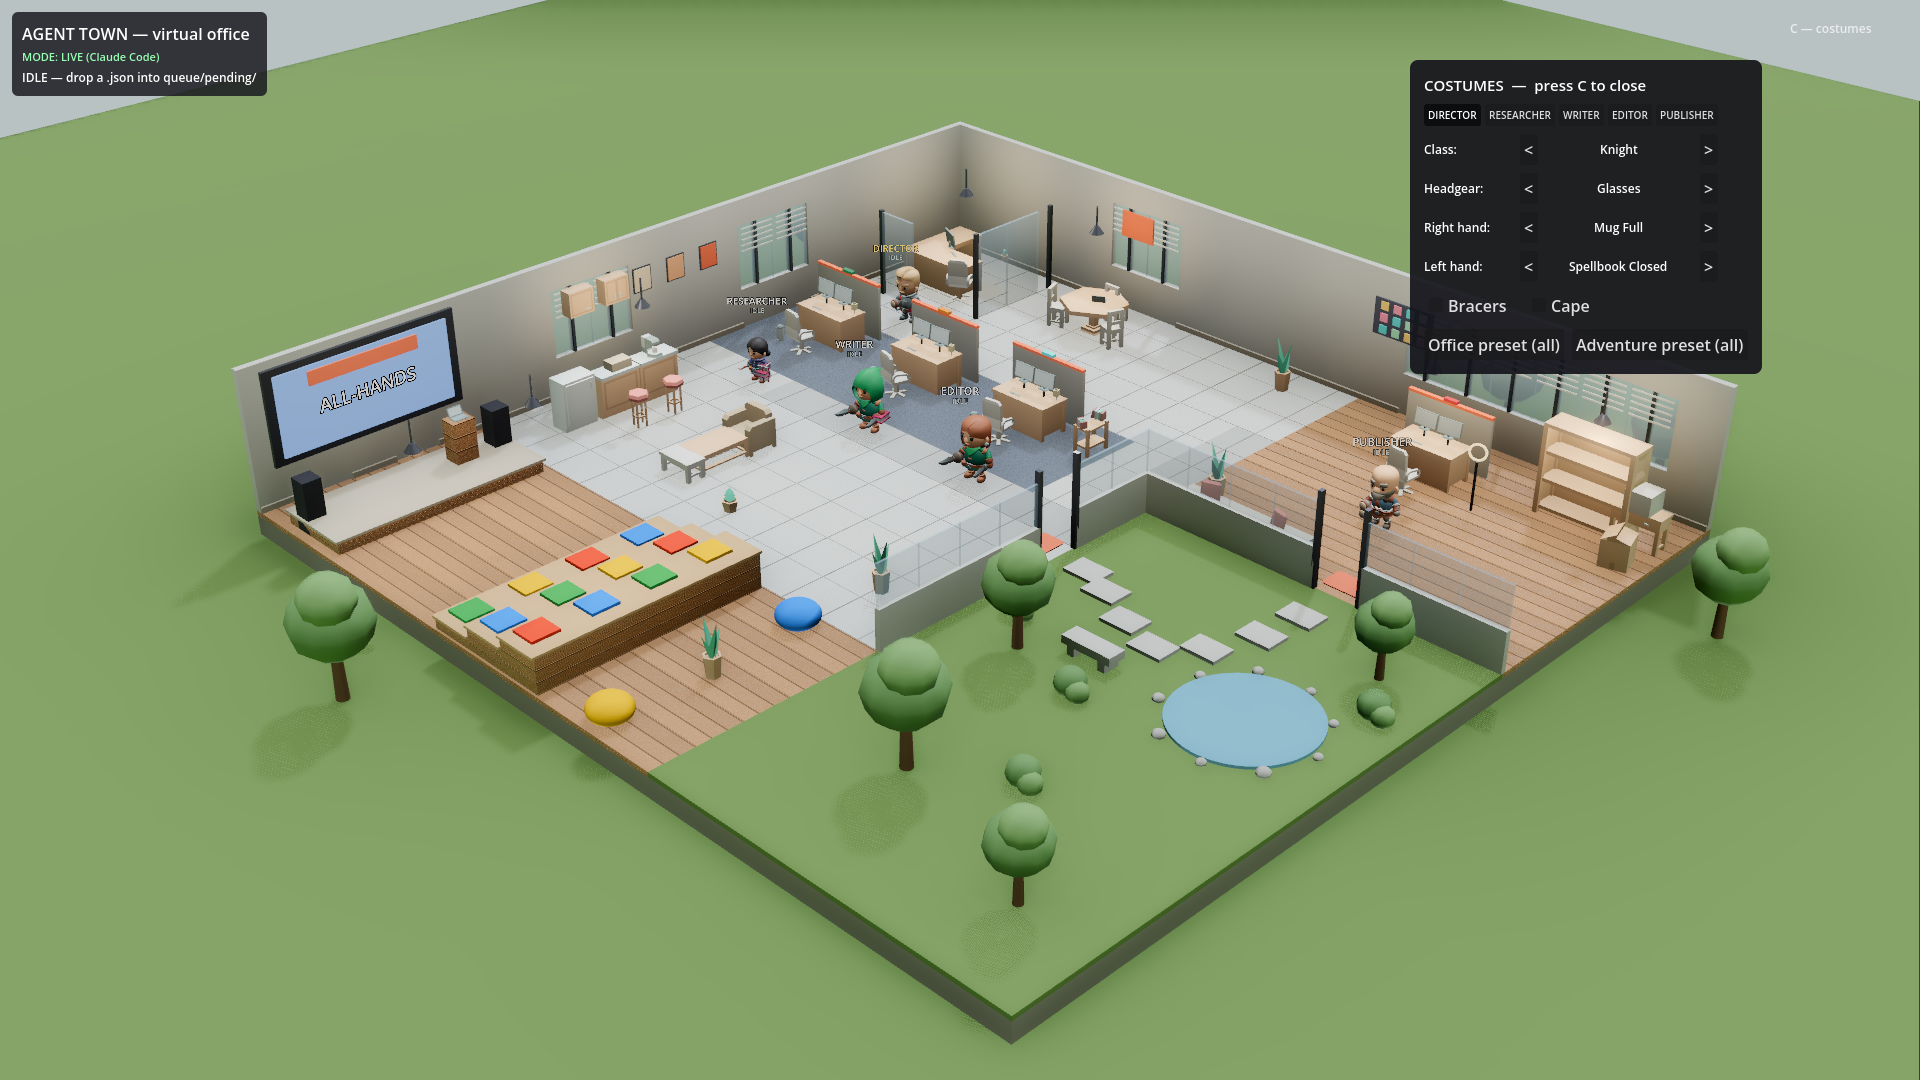
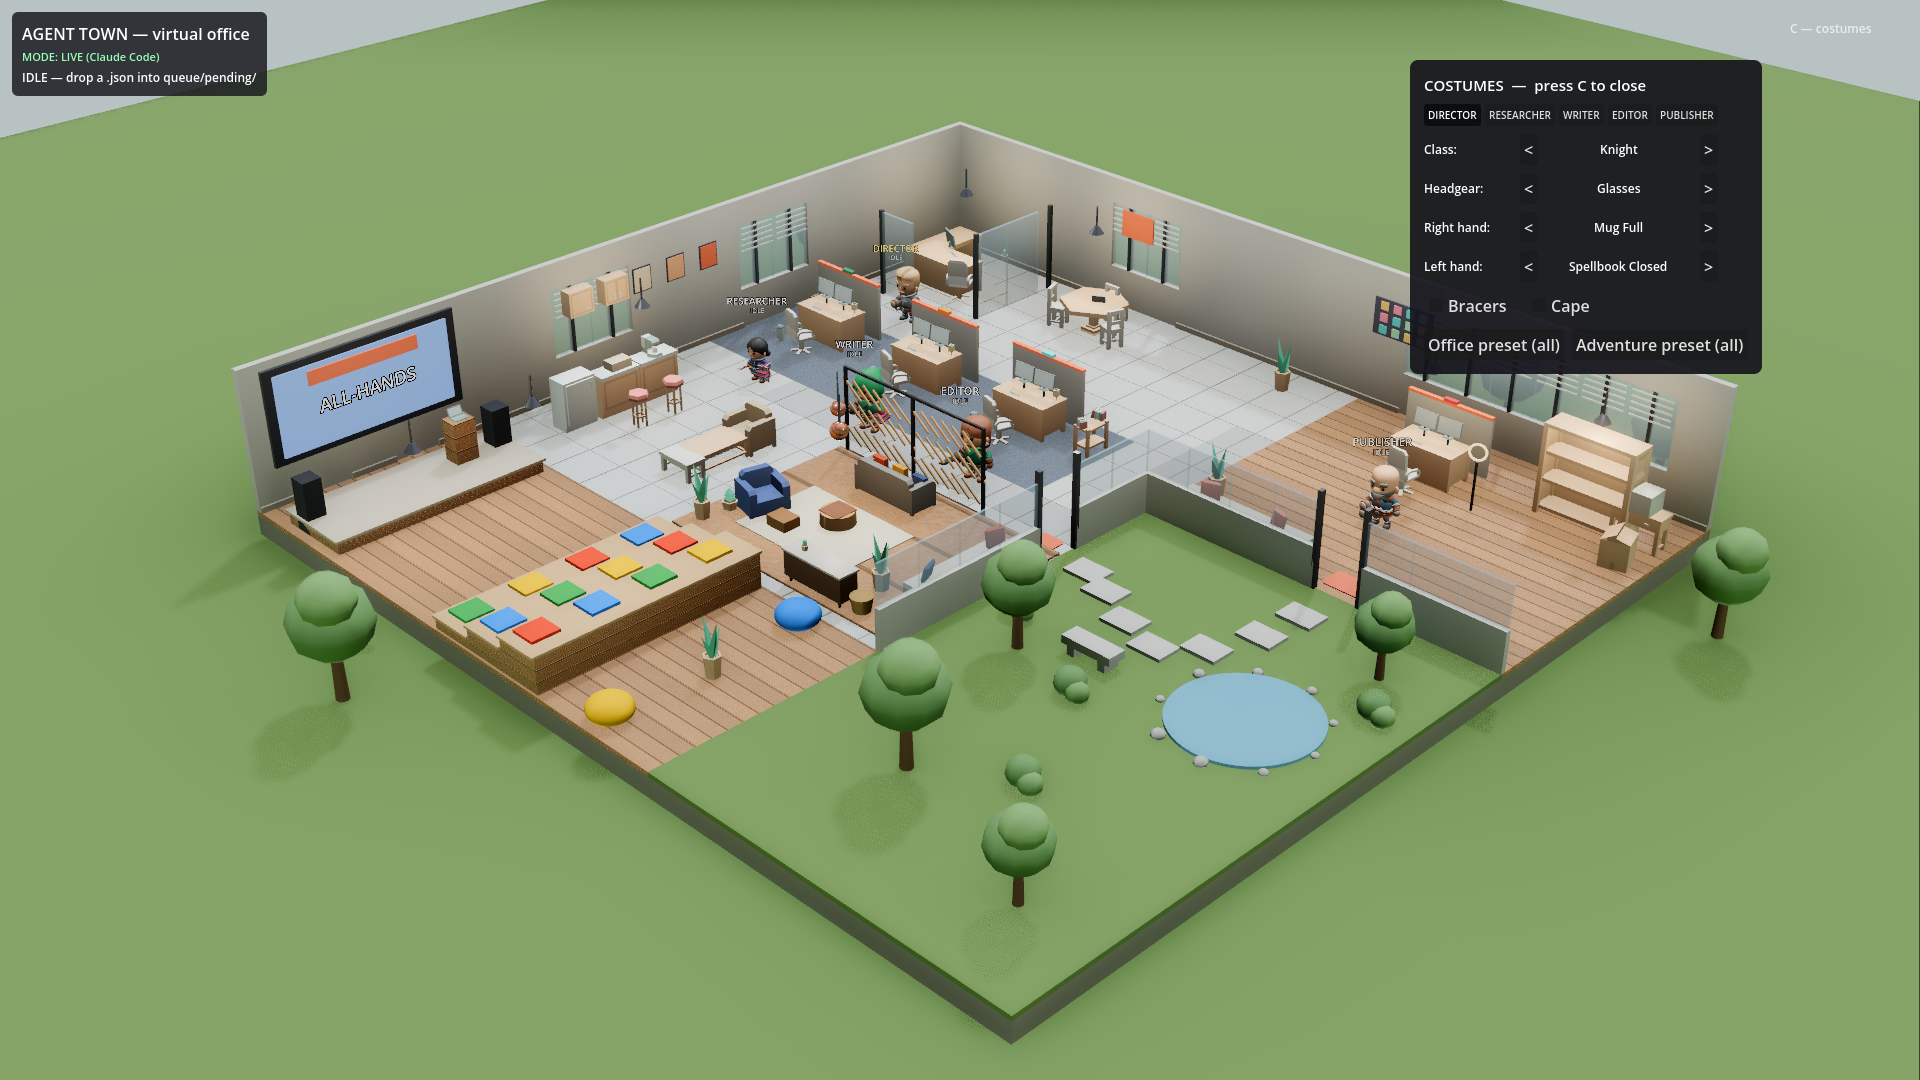
Relax lounge from reference (docs/RELAX_AREA_STUDY.md)
Industrial-Scandinavian breakout zone in the last open bay, sited on
the courtyard glass for the garden view (prospect-refuge):
- light-oak platform + ivory rug zone the lounge off the tile
- diagonal fir-slat screens on powder-coat frames close the spine edge
- gray sofa w/ kilim pillows, indigo armchair, tan ottoman, plaid pouf
- copper globe pendant cluster (measured F0) + warm light pool
- walnut credenza w/ honed-marble top, baskets, big plants
- pathfinding blocks added; entries via coffee bar + spine corner

Changed region(s): [[0.3438, 0.3361, 0.5312, 0.5806], [0.2812, 0.3667, 0.3125, 0.3972]]

diff --git a/docs/RELAX_AREA_STUDY.md b/docs/RELAX_AREA_STUDY.md
@@ -1,0 +1,53 @@
+# Relax Area Study — reference photo → Agent Town lounge
+
+## What the reference shows (industrial-Scandinavian breakout)
+
+- **Floor zoning, not walls**: light-oak plank floor lifts the lounge off the
+  surrounding concrete; a pale patterned rug marks the seating group inside it
+- **Diagonal wood-slat screens** on black steel frames — semi-enclosure that
+  filters sightlines without blocking light
+- **Seating triangle**: gray sofa with kilim pillows + blue mid-century
+  armchair + tan leather ottoman, all facing a plaid round pouf
+- **Copper globe pendant cluster** (Tom Dixon-style) — warm, low, decorative
+  light over the group instead of overhead panels
+- **Walnut chevron credenza with marble top** on black steel legs
+- **Biophilic layer**: large potted plants, woven baskets, natural textures
+
+## Breakout-space principles applied
+
+- Micro-zones: a restorative zone wants low sensory input — soft seating,
+  visual calm, acoustic softness (rug + upholstery + felt absorb sound)
+- Semi-enclosed, not sealed: screens and plants divide without isolating
+- Warm glare-free pendants for relaxed zones; avoid task lighting
+- Plants and natural materials are the highest-impact low-cost intervention
+
+Sources: [homeworlddesign.com](https://homeworlddesign.com/how-to-design-an-office-breakout-area/),
+[spacematrix.com](https://blog.spacematrix.com/why-every-office-needs-a-breakout-area/),
+[futureoftheoffice.com](https://www.futureoftheoffice.com/insights/2548775_home-away-from-home-designing-breakout-areas-for-modern-offices),
+[quillsinteriors.co.uk](https://quillsinteriors.co.uk/ergonomics-beyond-the-desk-creating-comfortable-breakout-spaces/)
+
+## Siting in Agent Town
+
+The open tile area between the coffee bar and the courtyard glass
+(cells 6–11 × 9–13) was the last unprogrammed zone — and it borders the
+garden. Restorative zones want a view (prospect–refuge): the lounge's
+window bench sits against the courtyard glass looking at the pond.
+Slat screens close the north edge toward the circulation spine; entries
+stay open on the west (from the coffee bar — coffee → couch adjacency)
+and at the northeast corner (spine + courtyard door).
+
+## Element mapping
+
+| Reference | Agent Town build | Material (researched) |
+|---|---|---|
+| Oak plank floor zone | 6.0×4.3 m platform over the tile | sealed wood, rough 0.45 |
+| Pale rug | 2.8×2.0 ivory rug | textile, rough 1.0, specular 0.25 |
+| Diagonal slat screens | 2 × 1.9 m frames, 3 rows of −38° fir slats | raw fir 0.55; powder-coat frame |
+| Gray sofa + kilim pillows | `loungeSofa` re-tinted warm gray + 3 pillow boxes | upholstery 0.9 |
+| Blue armchair + ottoman | `loungeChair` re-tinted indigo + tan leather box | leather rough 0.45 |
+| Plaid pouf | two-tone cylinder | textile 0.92 |
+| Copper pendants | 3 staggered globes + one warm omni pool | polished copper: metallic 1.0, rough 0.12, F0 (0.93, 0.62, 0.52) |
+| Walnut + marble credenza | walnut box, honed-marble top, steel legs | marble rough 0.25 (measured albedo 0.83, 0.79, 0.75) |
+| Plants + baskets | `pottedPlant`, `plantSmall2`, seagrass cylinder | matte/woven |
+
+Copper and marble values from [physicallybased.info](https://physicallybased.info/).